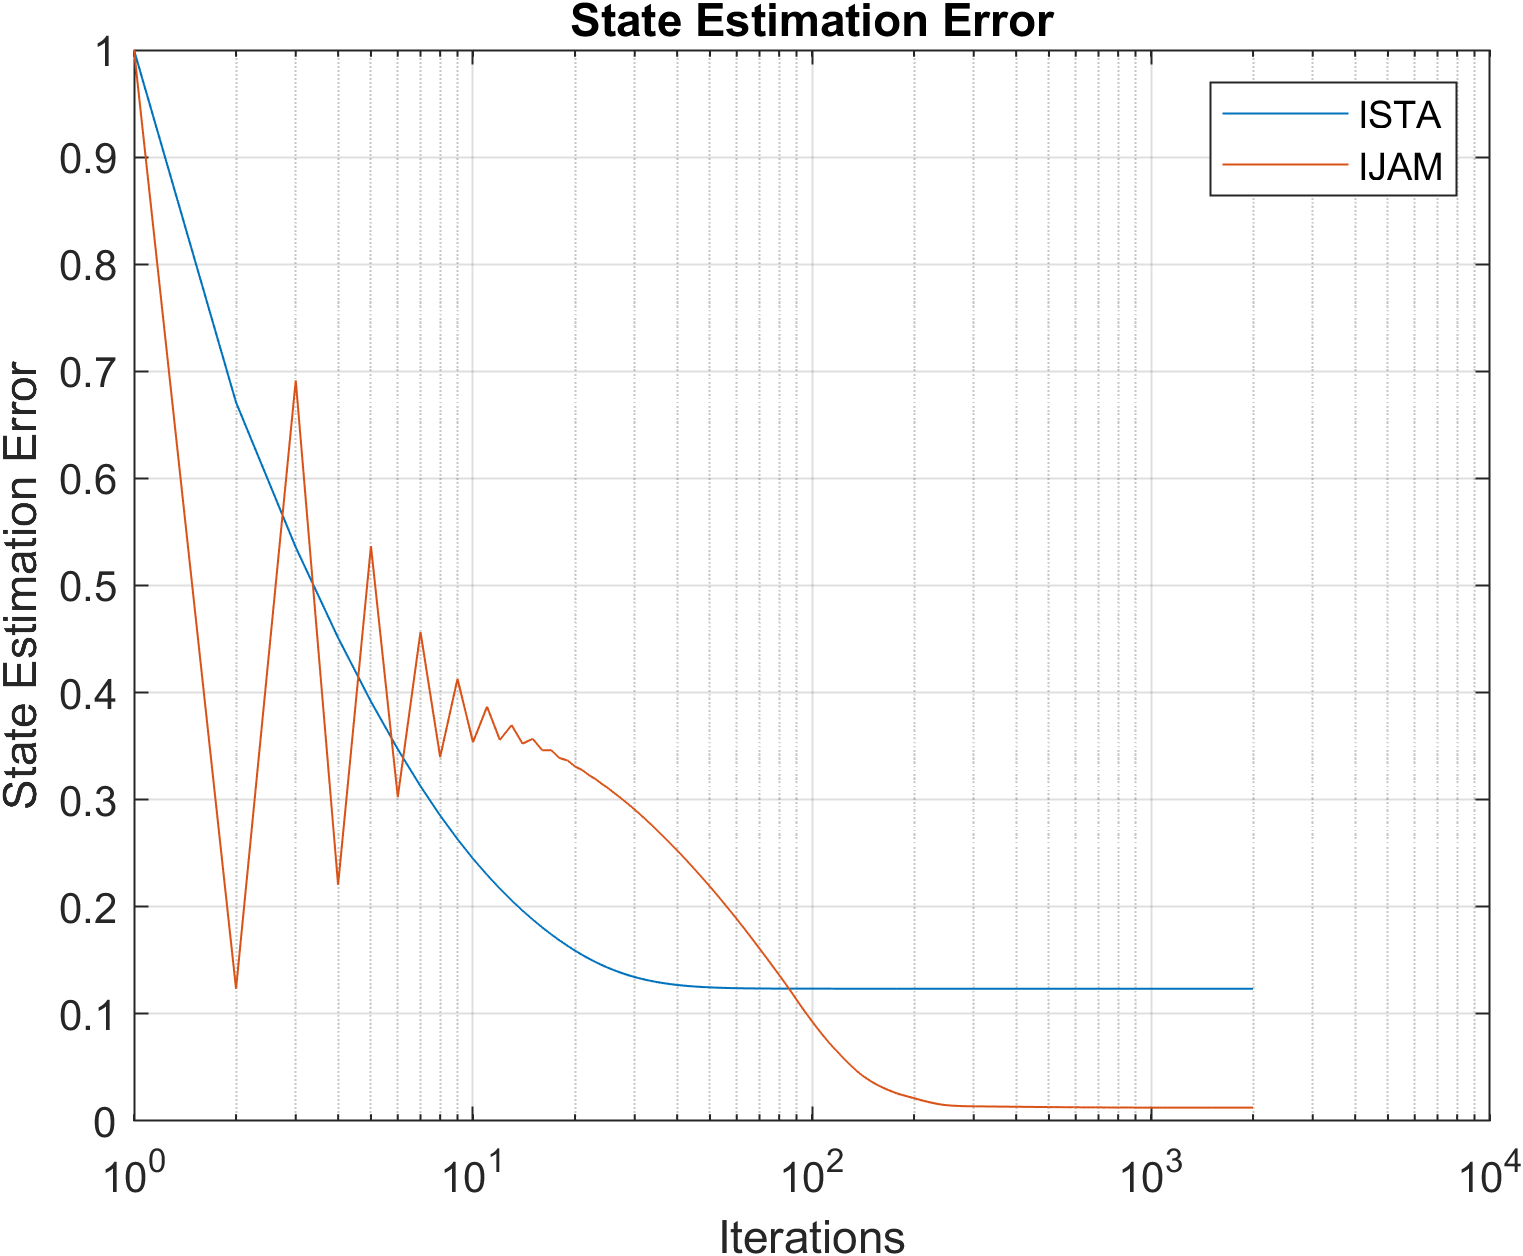
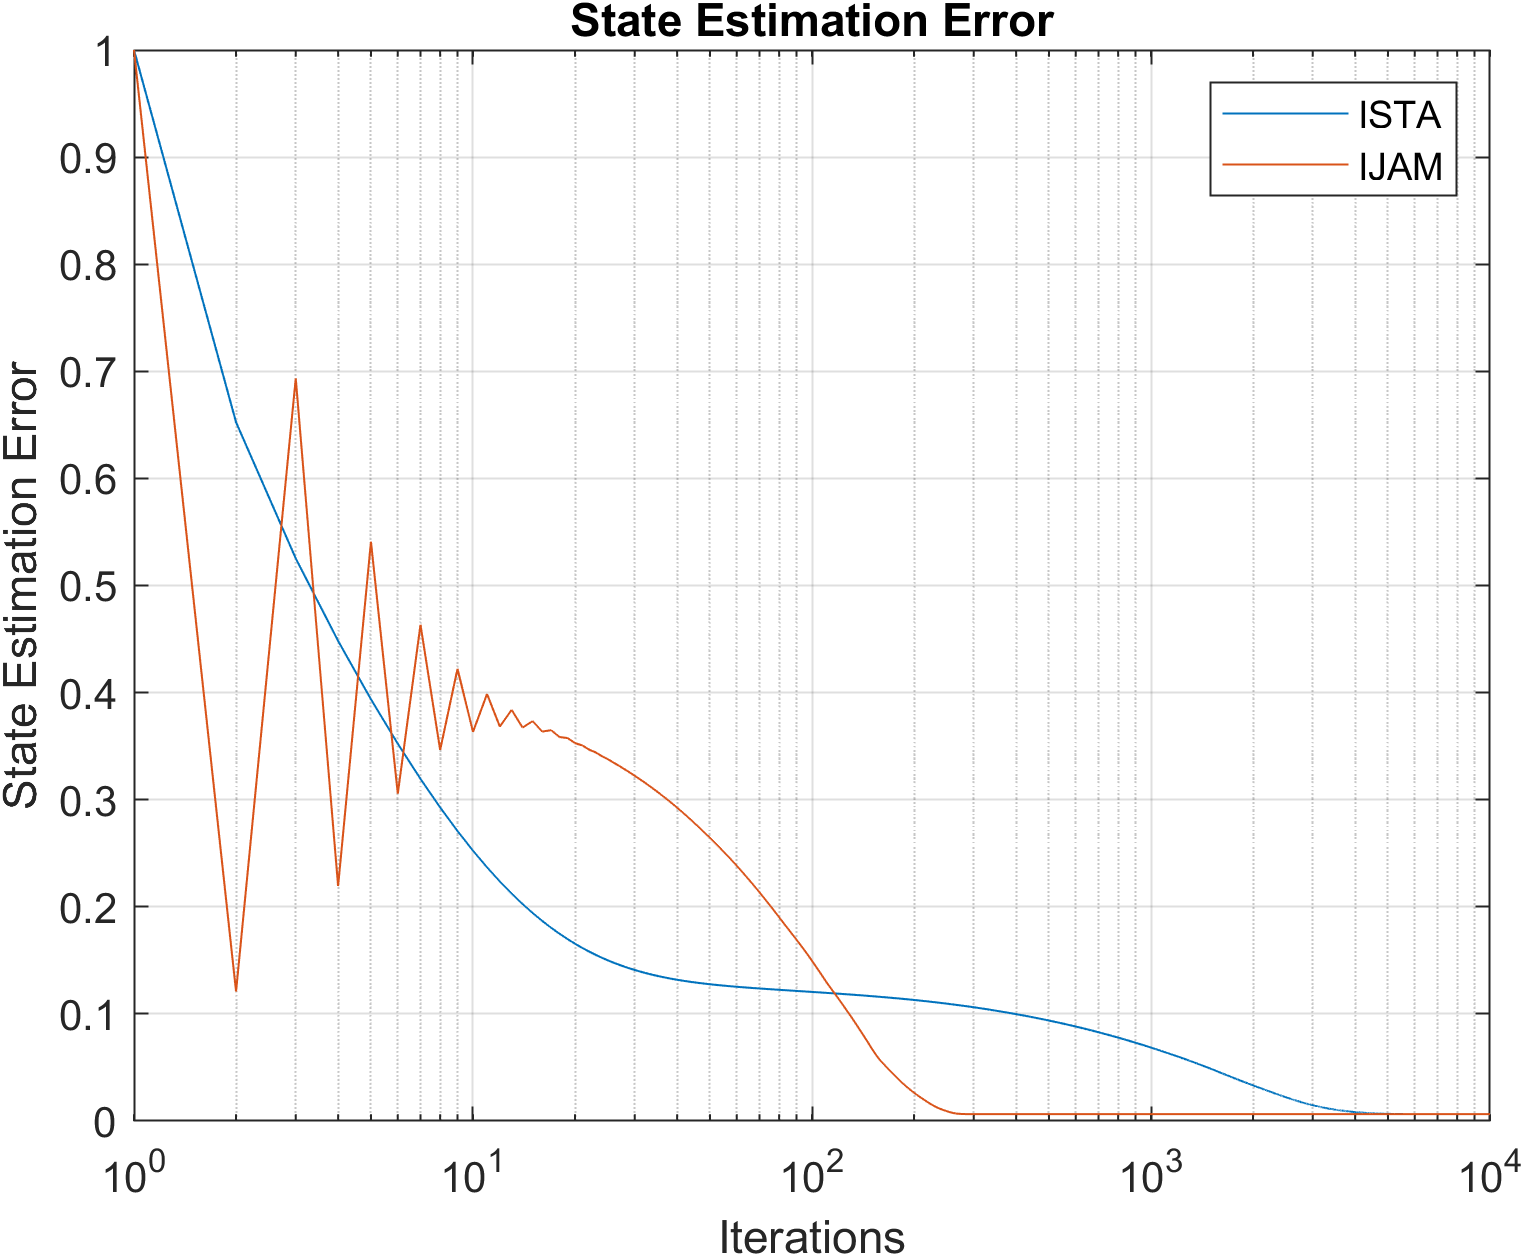
fix error computation

diff --git a/task1/task1.m b/task1/task1.m
@@ -9,7 +9,7 @@ delta = 1e-10;   %Convergence Treshold
 sigma = 1e-2;     %Measurement noise std
 total_runs = 20; 
 nu_IJAM = 0.7; 
-max_iterations = 5000; 
+max_iterations = 10000; 
 
 state_errors_ISTA_all = zeros(total_runs, max_iterations);
 support_errors_ISTA_all = zeros(total_runs, max_iterations);

diff --git a/task1/support_attack_error.m b/task1/support_attack_error.m
@@ -1,6 +1,6 @@
 function error = support_attack_error(a, a_est)
     error=0;
     for i=1:size(a,1)
-        error = error + abs((a(i) ~= 0) - (a_est(i) ~= 0));
+        error = error + abs((a(i) <= 0.15 && a(i) >= -0.15) - (a_est(i) <= 0.15 && a_est(i) >= -0.15));
     end 
 end 
